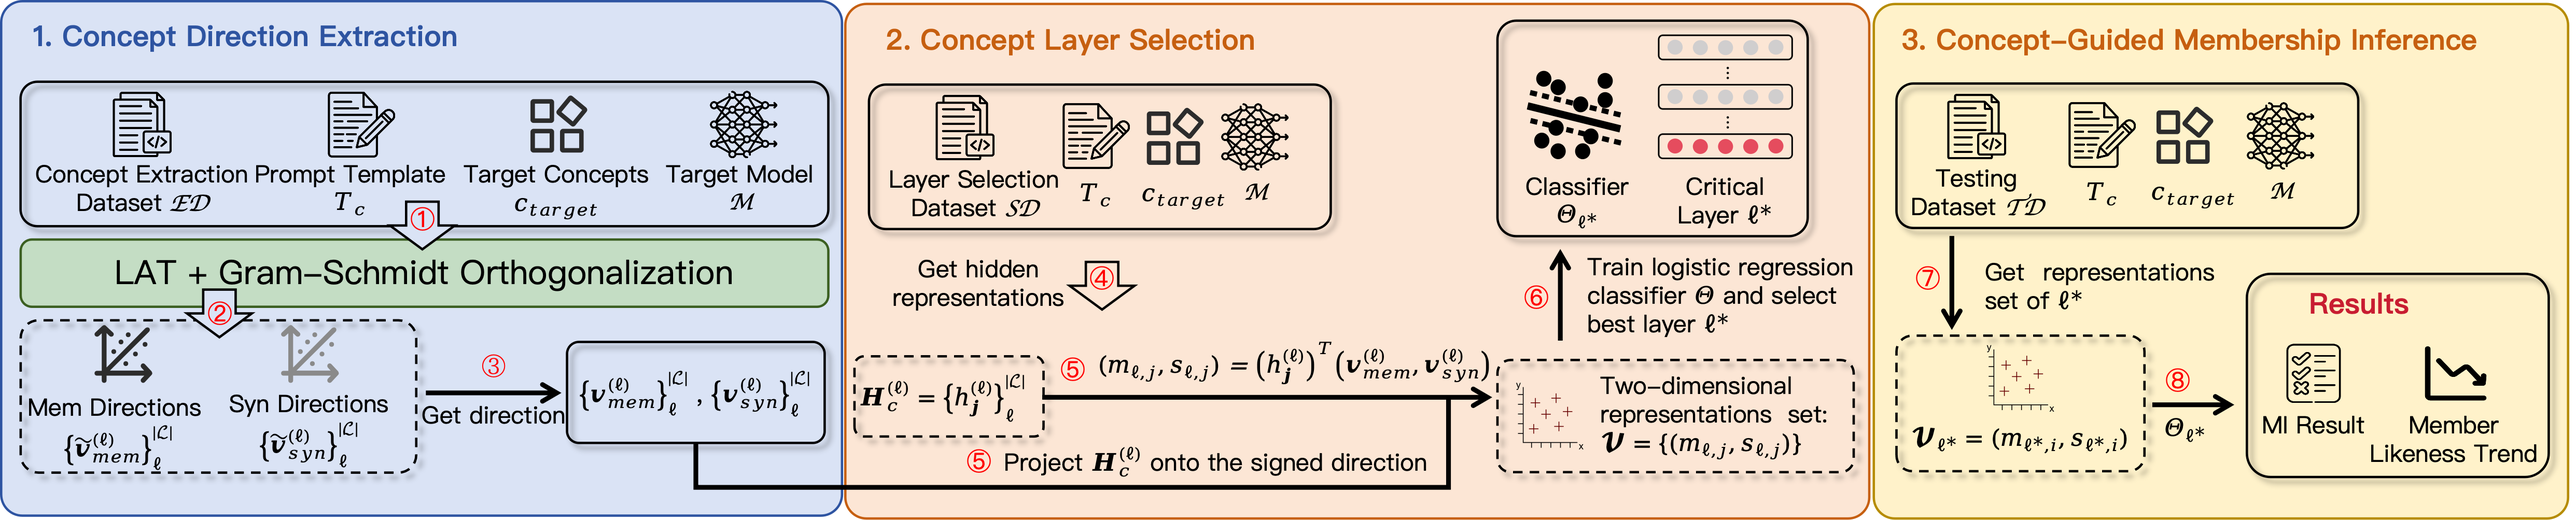
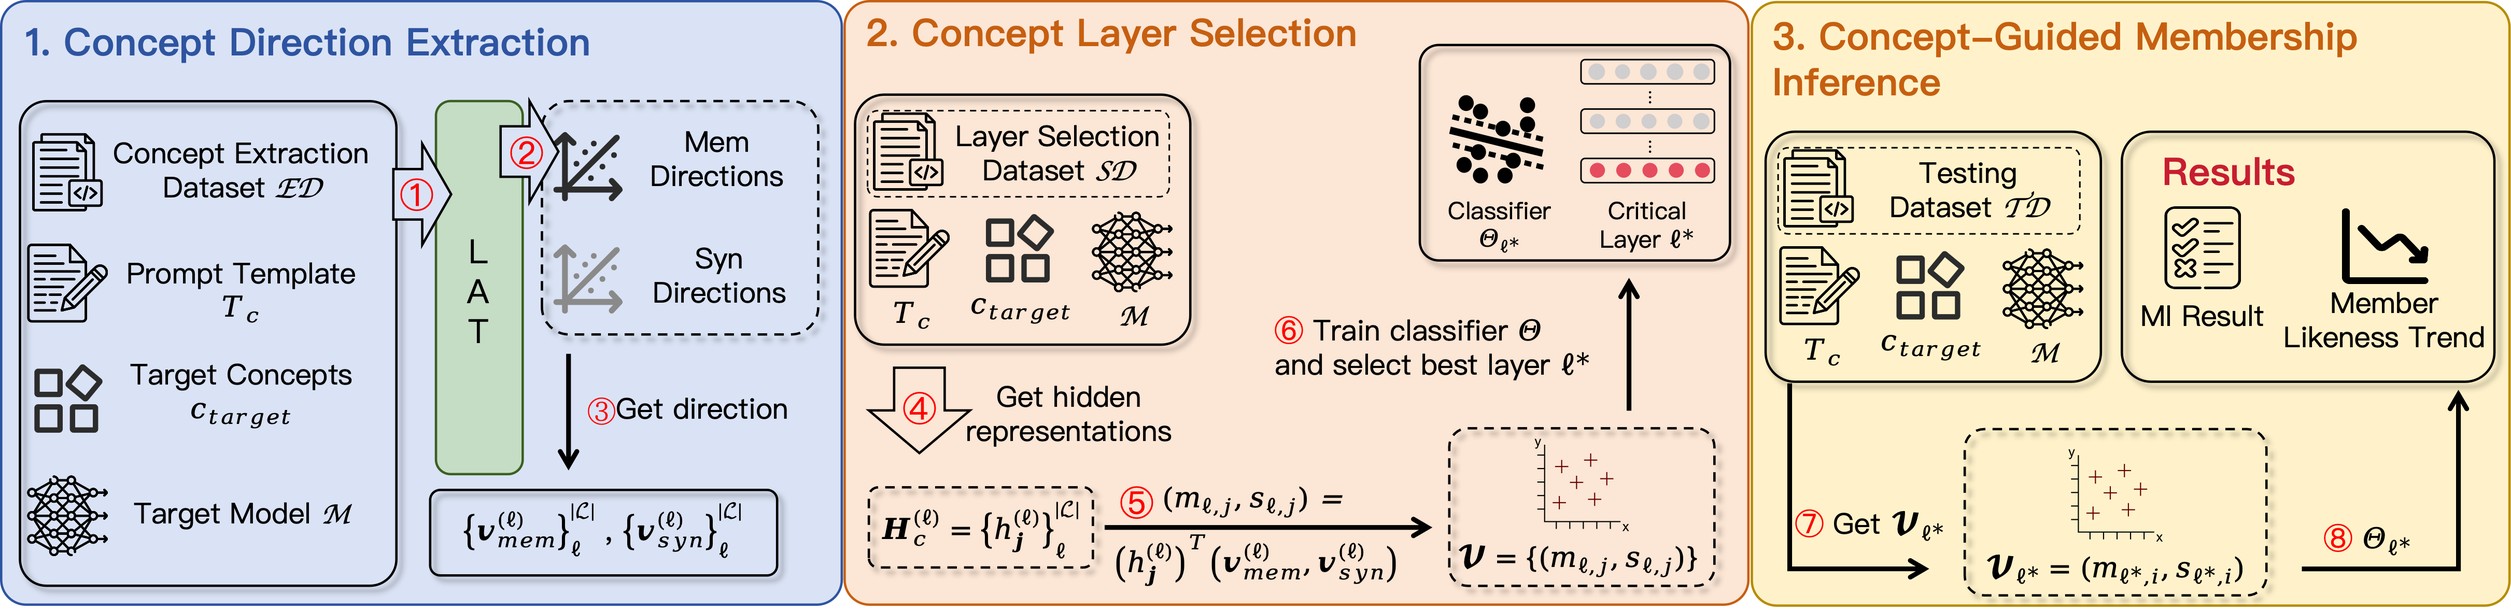
workflow

Changed region(s): [[0.0, 0.0, 1.0, 1.0], [0.0, 0.0309, 0.2494, 0.0927], [0.0, 0.9581, 0.1559, 1.0]]

diff --git a/experiments/RQ1/plot_trans_code_baseline.py b/experiments/RQ1/plot_trans_code_baseline.py
@@ -18,6 +18,7 @@ if str(RQ2_DIR) not in sys.path:
     sys.path.insert(0, str(RQ2_DIR))
 
 from plot_RQ2 import (  # noqa: E402
+    FONT_SIZES as RQ2_FONT_SIZES,
     GROUP_ORDER_SINGLE,
     _load_model_scores,
     _plot_violin_on_ax as _plot_rq2_violin_on_ax,
@@ -53,6 +54,24 @@ METHOD_DISPLAY_LABELS = {
     "min_k": "Min-K",
     "ppl": "Perplexity",
 }
+FONT_SIZES = {
+    "title": 22,
+    "axis_label": 24,
+    "tick_label": 22,
+    "trend_value": 16,
+    "legend": 16,
+    "no_data": 20,
+}
+FIGURE_LAYOUT = {
+    "fig_width": 27.0,
+    "fig_height": 7.6,
+    "tight_pad": 0.55,
+    "tight_w_pad": 0.55,
+    "tight_h_pad": 1.15,
+    "subplot_wspace": 0.22,
+    "subplot_hspace": 0.8,
+}
+RQ2_FONT_SIZES.update(FONT_SIZES)
 
 
 def _parse_methods(value: str) -> List[str]:
@@ -192,7 +211,16 @@ def _plot_rq1_violin_on_ax(
             body.set_edgecolor("#6BAED6")
             body.set_alpha(0.58)
     else:
-        ax.text(0.5, 0.5, "No data", ha="center", va="center", transform=ax.transAxes)
+        ax.text(
+            0.5,
+            0.5,
+            "No data",
+            ha="center",
+            va="center",
+            transform=ax.transAxes,
+            fontsize=FONT_SIZES["no_data"],
+            fontweight="bold",
+        )
 
     if trend_stat in {"mean", "median"}:
         statistic = np.mean if trend_stat == "mean" else np.median
@@ -203,25 +231,41 @@ def _plot_rq1_violin_on_ax(
         )
         valid = np.isfinite(y_values)
         if np.any(valid):
-            ax.plot(x_values[valid], y_values[valid], marker="o", color="#008B8B", linewidth=2.0)
+            ax.plot(
+                x_values[valid],
+                y_values[valid],
+                marker="o",
+                color="#008B8B",
+                linewidth=2.0,
+                label=f"{trend_stat} trend",
+            )
             for x_value, y_value in zip(x_values[valid], y_values[valid]):
-                ax.text(x_value, y_value, f"{y_value:.4f}", ha="center", va="bottom", fontsize=10,
-                        fontweight="bold", color="#008B8B")
+                ax.text(
+                    x_value,
+                    y_value,
+                    f"{y_value:.4f}",
+                    ha="center",
+                    va="bottom",
+                    fontsize=FONT_SIZES["trend_value"],
+                    fontweight="bold",
+                    color="#008B8B",
+                )
+            ax.legend(loc="best", framealpha=0.85, fontsize=FONT_SIZES["legend"])
 
     ax.set_xticks(np.arange(1, len(group_order) + 1))
     ax.set_xticklabels(
         [GROUP_DISPLAY_LABELS.get(group, group) for group in group_order],
         rotation=18,
         ha="right",
-        fontsize=15,
+        fontsize=FONT_SIZES["tick_label"],
         fontweight="bold",
     )
-    ax.tick_params(axis="y", labelsize=15)
+    ax.tick_params(axis="y", labelsize=FONT_SIZES["tick_label"])
     for label in ax.get_yticklabels():
         label.set_fontweight("bold")
     ax.set_xlim(0.5, len(group_order) + 0.5)
-    ax.set_ylabel("Value", fontsize=17, fontweight="bold")
-    ax.set_title(title, fontsize=15, fontweight="bold", pad=13)
+    ax.set_ylabel("Value", fontsize=FONT_SIZES["axis_label"], fontweight="bold")
+    ax.set_title(title, fontsize=FONT_SIZES["title"], fontweight="bold", pad=13)
     ax.grid(axis="y", color="#E6E6E6")
 
 
@@ -263,7 +307,12 @@ def main() -> None:
         raise ValueError("--independent-old-indices must contain four values.")
 
     overrides = _parse_method_q_high_overrides(args.method_q_high_overrides)
-    fig, axes = plt.subplots(2, 5, figsize=(27, 7.6), facecolor="#FFFFFF")
+    fig, axes = plt.subplots(
+        2,
+        5,
+        figsize=(FIGURE_LAYOUT["fig_width"], FIGURE_LAYOUT["fig_height"]),
+        facecolor="#FFFFFF",
+    )
     flat_axes = axes.flatten()
     rq1_axis_indices = [0, 1, 2, 3, 5, 6, 7, 8]
     for method, axis_index in zip(ordered_methods, rq1_axis_indices):
@@ -290,8 +339,15 @@ def main() -> None:
         axes[1, 4], GROUP_ORDER_SINGLE, grouped_syn, f"Syn Score Distribution", "", args.violin_trend_stat
     )
 
-    fig.tight_layout(pad=0.55, w_pad=0.55, h_pad=1.15)
-    fig.subplots_adjust(wspace=0.22, hspace=0.45)
+    fig.tight_layout(
+        pad=FIGURE_LAYOUT["tight_pad"],
+        w_pad=FIGURE_LAYOUT["tight_w_pad"],
+        h_pad=FIGURE_LAYOUT["tight_h_pad"],
+    )
+    fig.subplots_adjust(
+        wspace=FIGURE_LAYOUT["subplot_wspace"],
+        hspace=FIGURE_LAYOUT["subplot_hspace"],
+    )
     output = args.output.resolve() if args.output else args.from_result.resolve() / "rq1_trans_code_baseline_2x5.png"
     output.parent.mkdir(parents=True, exist_ok=True)
     fig.savefig(output, dpi=220)

diff --git a/experiments/RQ2/plot_RQ2.py b/experiments/RQ2/plot_RQ2.py
@@ -22,6 +22,23 @@ GROUP_DISPLAY_LABELS = {
     "v4": "Level 4",
     "Unseen": "Non-member",
 }
+FONT_SIZES = {
+    "title": 26,
+    "axis_label": 28,
+    "tick_label": 28,
+    "trend_value": 16,
+    "legend": 20,
+    "no_data": 26,
+}
+FIGURE_LAYOUT = {
+    "fig_width": 18.0,
+    "fig_height": 8.0,
+    "tight_pad": 0.75,
+    "tight_w_pad": 1.0,
+    "tight_h_pad": 1.5,
+    "subplot_wspace": 0.25,
+    "subplot_hspace": 0.80,
+}
 
 
 def _split_csv(value: str) -> List[str]:
@@ -156,12 +173,18 @@ def _plot_violin_on_ax(
             ha="center",
             va="center",
             transform=ax.transAxes,
-            fontsize=14,
+            fontsize=FONT_SIZES["no_data"],
             fontweight="bold",
         )
-        ax.set_title(title, fontsize=15, fontweight="bold", pad=13)
+        ax.set_title(title, fontsize=FONT_SIZES["title"], fontweight="bold", pad=13)
         ax.set_xticks(np.arange(1, len(group_order) + 1))
-        ax.set_xticklabels(_display_groups(group_order), rotation=18, ha="right", fontsize=15, fontweight="bold")
+        ax.set_xticklabels(
+            _display_groups(group_order),
+            rotation=18,
+            ha="right",
+            fontsize=FONT_SIZES["tick_label"],
+            fontweight="bold",
+        )
         return
 
     positions = []
@@ -217,21 +240,27 @@ def _plot_violin_on_ax(
                     f"{yi:.4f}",
                     ha="center",
                     va="bottom",
-                    fontsize=10,
+                    fontsize=FONT_SIZES["trend_value"],
                     fontweight="bold",
                     color="#008B8B",
                 )
-            ax.legend(loc="best", framealpha=0.85, fontsize=10)
+            ax.legend(loc="best", framealpha=0.85, fontsize=FONT_SIZES["legend"])
 
     ax.set_xticks(np.arange(1, len(group_order) + 1))
-    ax.set_xticklabels(_display_groups(group_order), rotation=18, ha="right", fontsize=15, fontweight="bold")
-    ax.tick_params(axis="y", labelsize=15)
+    ax.set_xticklabels(
+        _display_groups(group_order),
+        rotation=18,
+        ha="right",
+        fontsize=FONT_SIZES["tick_label"],
+        fontweight="bold",
+    )
+    ax.tick_params(axis="y", labelsize=FONT_SIZES["tick_label"])
     for label in ax.get_yticklabels():
         label.set_fontweight("bold")
     ax.set_xlim(0.5, len(group_order) + 0.5)
-    ax.set_ylabel(ylabel, fontsize=17, fontweight="bold")
+    ax.set_ylabel(ylabel, fontsize=FONT_SIZES["axis_label"], fontweight="bold")
     ax.set_xlabel("")
-    ax.set_title(title, fontsize=15, fontweight="bold", pad=13)
+    ax.set_title(title, fontsize=FONT_SIZES["title"], fontweight="bold", pad=13)
     ax.grid(axis="y", color="#E6E6E6", alpha=1.0)
 
 
@@ -325,7 +354,12 @@ def main() -> None:
     if len(old_indices) != 4:
         raise ValueError("--independent-old-indices must have exactly 4 entries for v1..v4.")
 
-    fig, axes = plt.subplots(2, 3, figsize=(6.0 * 3, 4.0 * 2), facecolor="#FFFFFF")
+    fig, axes = plt.subplots(
+        2,
+        3,
+        figsize=(FIGURE_LAYOUT["fig_width"], FIGURE_LAYOUT["fig_height"]),
+        facecolor="#FFFFFF",
+    )
 
     for col, (model, label) in enumerate(zip(models, labels)):
         lat_json = args.results_root / model / args.parent_prefix / args.single_run_subdir / "LAT.json"
@@ -335,7 +369,7 @@ def main() -> None:
             GROUP_ORDER_SINGLE,
             grouped_mem,
             f"{label} Mem",
-            "Mem Score",
+            "Mem Score" if col == 0 else "",
             args.violin_trend_stat,
         )
         _plot_violin_on_ax(
@@ -343,12 +377,19 @@ def main() -> None:
             GROUP_ORDER_SINGLE,
             grouped_syn,
             f"{label} Syn",
-            "Syn Score",
+            "Syn Score" if col == 0 else "",
             args.violin_trend_stat,
         )
 
-    fig.tight_layout(pad=0.75, w_pad=1.0, h_pad=1.5)
-    fig.subplots_adjust(wspace=0.25, hspace=0.40)
+    fig.tight_layout(
+        pad=FIGURE_LAYOUT["tight_pad"],
+        w_pad=FIGURE_LAYOUT["tight_w_pad"],
+        h_pad=FIGURE_LAYOUT["tight_h_pad"],
+    )
+    fig.subplots_adjust(
+        wspace=FIGURE_LAYOUT["subplot_wspace"],
+        hspace=FIGURE_LAYOUT["subplot_hspace"],
+    )
 
     if args.output is not None:
         out_path = args.output.resolve()
